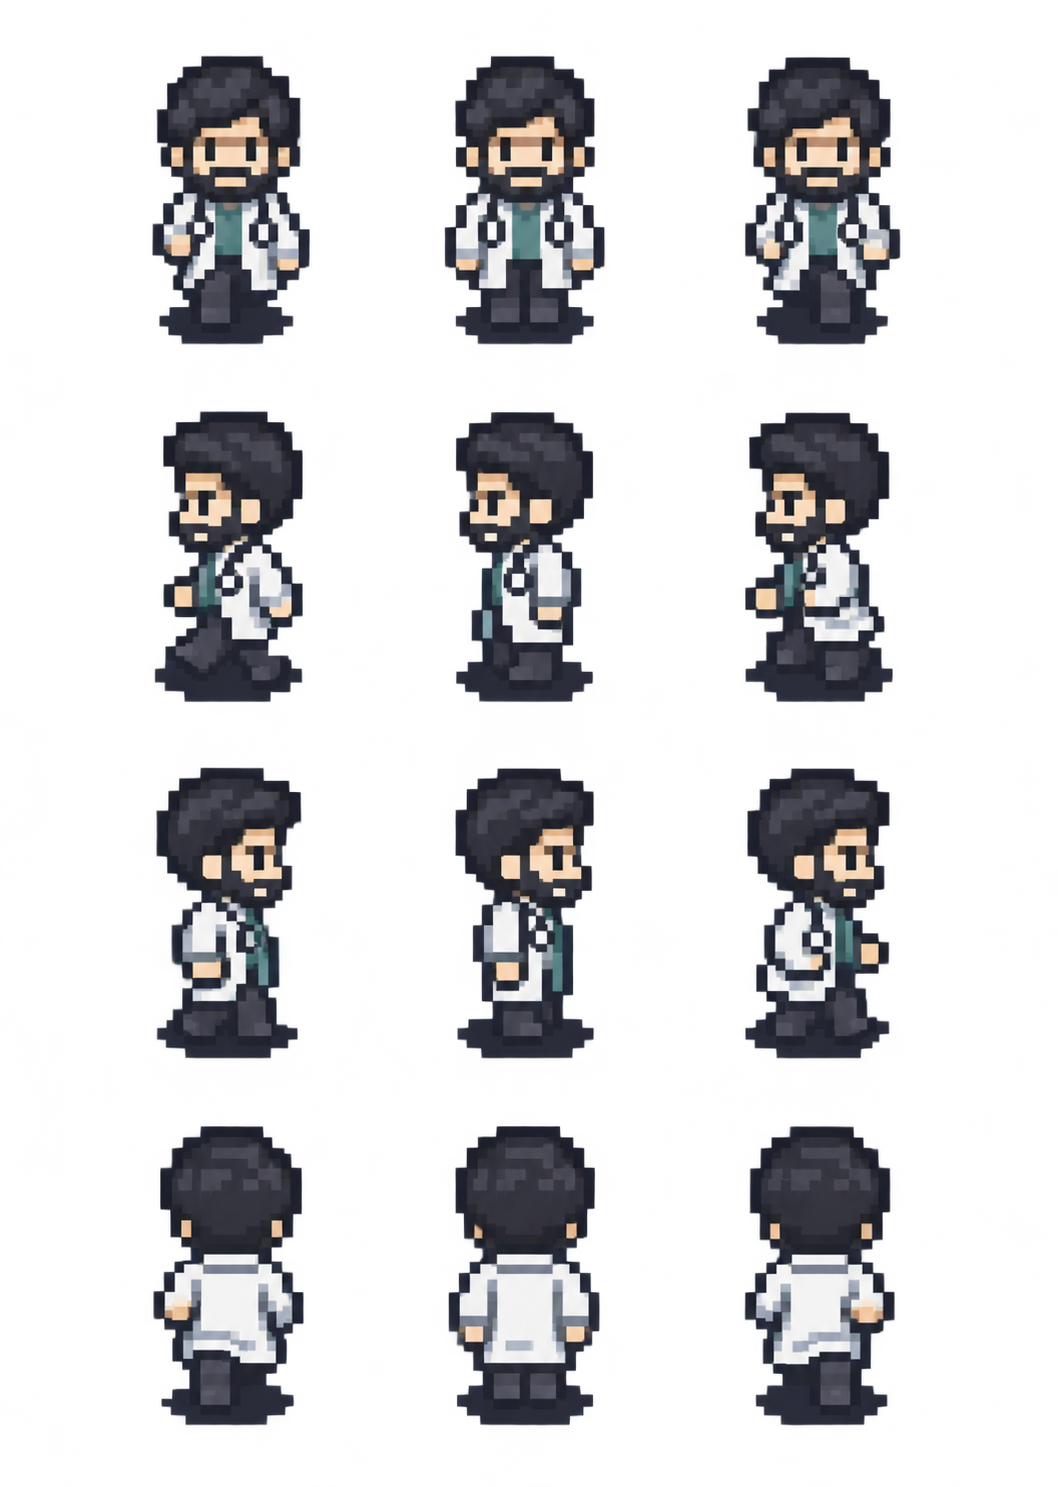
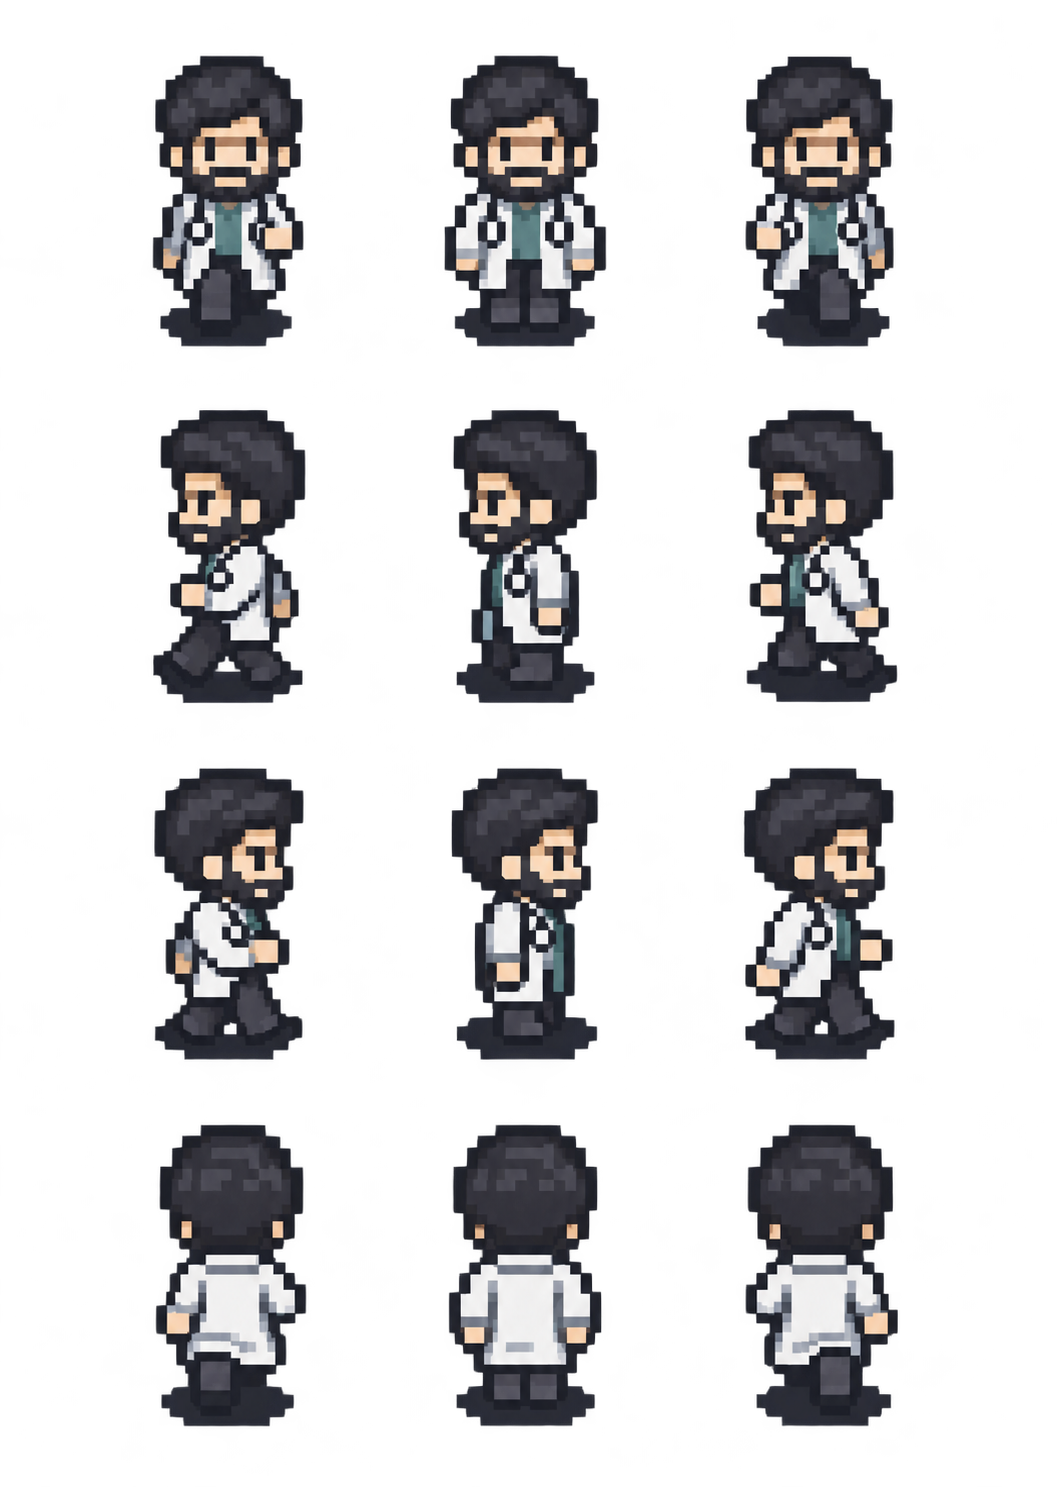
Beta v3.61.0: restore small elf and repair clinician arm swing

diff --git a/modules/themes/effects/christmasPeople.js b/modules/themes/effects/christmasPeople.js
@@ -5,14 +5,14 @@ export const PERSON_CAST=[...HOLIDAY_PEOPLE,...MEDICAL_PEOPLE].map(file=>({file,
   sheetWidth:234,sheetHeight:432,scale:1,animal:false,holiday:HOLIDAY_PEOPLE.includes(file)}));
 // The generated sheets have unequal margins. Atlas coordinates align feet and centers
 // without altering the approved artwork or stretching individual walking frames.
-const ATLAS={"doctor-olive.webp":[[32.89714,-0.30857],[123.92571,-0.30857],[215.10857,-0.30857],[31.50857,109.23429],[123.77143,109.23429],[216.03429,109.54286],[31.66286,219.39429],[123.46286,219.39429],[214.95429,219.39429],[32.58857,332.94857],[124.08,332.94857],[214.8,332.94857]],"doctor-navy.webp":[[32.58857,-1.23429],[123.46286,-1.23429],[214.95429,-1.23429],[31.66286,108.61714],[123.46286,108.61714],[215.26286,108.61714],[31.81714,218.77714],[123.77143,218.77714],[214.49143,218.77714],[32.28,332.02286],[123.46286,332.02286],[214.95429,332.02286]],"doctor-coat.webp":[[32.43429,-1.85143],[123.0,-1.85143],[214.8,-1.85143],[31.66286,108.61714],[122.84571,108.61714],[213.72,108.61714],[31.66286,218.46857],[123.0,218.46857],[213.25714,218.46857],[31.50857,331.71429],[122.69143,331.71429],[214.02857,331.71429]],"doctor-pink-blonde.webp":[[31.35429,0.61714],[122.22857,0.61714],[214.33714,0.61714],[32.43429,110.16],[123.61714,110.16],[215.41714,109.85143],[31.66286,220.01143],[123.30857,220.32],[214.49143,220.32],[32.28,333.56571],[123.77143,333.56571],[215.72571,333.56571]],"doctor-pink-chestnut.webp":[[33.20571,-0.30857],[123.92571,-0.30857],[215.26286,-0.30857],[33.66857,108.92571],[124.38857,108.92571],[216.34286,108.92571],[30.58286,219.39429],[122.38286,219.39429],[213.10286,219.39429],[32.28,332.33143],[123.77143,332.33143],[215.26286,332.33143]]};
-for(const cast of PERSON_CAST)if(ATLAS[cast.file])Object.assign(cast,{sheetWidth:1058*108/350,sheetHeight:1487*108/350,frames:ATLAS[cast.file]});
+const ATLAS={"doctor-coat.webp":[[31.35429,-1.23429],[123.15429,-1.23429],[213.87429,-1.23429],[31.66286,108.92571],[123.15429,108.92571],[214.64571,108.61714],[31.50857,218.77714],[123.0,219.08571],[213.72,218.77714],[32.28,332.02286],[123.0,332.02286],[214.64571,332.02286]],"doctor-navy.webp":[[32.28,-0.61714],[123.30857,-0.61714],[215.41714,-0.61714],[31.97143,109.23429],[123.92571,109.23429],[215.72571,109.23429],[31.50857,218.77714],[123.15429,218.77714],[214.64571,218.77714],[32.58857,332.64],[123.77143,332.64],[215.57143,332.64]],"doctor-olive.webp":[[32.28,0.61714],[123.77143,0.61714],[215.10857,0.61714],[31.66286,110.16],[123.92571,110.16],[216.34286,110.46857],[31.81714,220.32],[123.61714,220.32],[214.64571,220.32],[32.89714,333.25714],[124.08,333.25714],[214.8,333.25714]],"doctor-pink-blonde.webp":[[30.73714,1.54286],[122.38286,1.54286],[213.87429,1.54286],[32.58857,110.16],[123.92571,110.16],[216.03429,110.16],[31.50857,220.32],[123.46286,220.32],[214.8,220.32],[32.12571,333.87429],[123.92571,333.87429],[215.41714,333.87429]],"doctor-pink-chestnut.webp":[[33.36,0.30857],[124.23429,0.30857],[215.57143,0.30857],[33.82286,109.54286],[124.54286,109.54286],[216.34286,109.54286],[30.42857,220.01143],[122.07429,219.70286],[213.10286,220.01143],[32.12571,332.64],[123.92571,332.64],[215.41714,332.64]]};
+for(const cast of PERSON_CAST)if(ATLAS[cast.file])Object.assign(cast,{sheetWidth:1058*108/350,sheetHeight:1487*108/350,frames:ATLAS[cast.file],imageVersion:2});
 
-// Ground-to-eye landmarks in normalized sprite coordinates; hats are excluded.
+// Adult ground-to-eye landmarks; the small elf retains its original scale.
 export const EYE_HEIGHT=50;
 const EYES={'xmas_santa_3.png':52,'xmas_misses_3.png':52,'xmas_jesus_3.png':53,'gnomea_mv.png':33,
   'doctor-coat.webp':59,'doctor-navy.webp':60,'doctor-pink-chestnut.webp':59,'doctor-pink-blonde.webp':59,'doctor-olive.webp':59};
-for(const cast of PERSON_CAST){cast.eyeHeight=EYES[cast.file];cast.scale=EYE_HEIGHT/cast.eyeHeight;}
+for(const cast of PERSON_CAST){cast.eyeHeight=EYES[cast.file];cast.scale=cast.file==='gnomea_mv.png'?1:EYE_HEIGHT/cast.eyeHeight;}
 export const PEOPLE_PORTALS=['left','right','urgencias','principal'];
 export function createPeopleTraffic(actors,{random,stage}){
   const holiday=PERSON_CAST.filter(c=>c.holiday),medical=PERSON_CAST.filter(c=>!c.holiday);

diff --git a/modules/themes/effects/christmasScene.js b/modules/themes/effects/christmasScene.js
@@ -73,7 +73,7 @@ export function createChristmasScene(app,{audio}={}){
     const s=scale*actor.cast.scale,{width:w,height:h,sheetWidth:sw,sheetHeight:sh}=actor.cast;
     size(actor.node,w,h,sw,sh,s);
     actor.node.setAttribute('data-character',actor.cast.file);
-    actor.node.style.backgroundImage='url("'+new URL(actor.cast.file,ASSETS).href+'")';
+    actor.node.style.backgroundImage='url("'+new URL(actor.cast.file+(actor.cast.imageVersion?'?v=walk-'+actor.cast.imageVersion:''),ASSETS).href+'")';
     actor.node.setAttribute('data-state',actor.state||'walking');
     actor.node.setAttribute('data-person',String(!actor.cast.animal));
     actor.node.setAttribute('data-holiday',String(!!actor.cast.holiday));
@@ -119,7 +119,7 @@ export function createChristmasScene(app,{audio}={}){
         const actorWidth=actor.cast.width*scale*actor.cast.scale;
         if(actor.x>width+actorWidth||actor.x<-actorWidth*2){
           actor.direction=actor.x<0?1:-1;
-          actor.cast=pickCast(actor);actor.node.style.backgroundImage='url("'+new URL(actor.cast.file,ASSETS).href+'")';
+          actor.cast=pickCast(actor);actor.node.style.backgroundImage='url("'+new URL(actor.cast.file+(actor.cast.imageVersion?'?v=walk-'+actor.cast.imageVersion:''),ASSETS).href+'")';
           actor.x=actor.direction>0?-actor.cast.width*scale*actor.cast.scale:width;actor.speed=random(24,42);
         }
       }

diff --git a/modules/themes/seasons/christmas/visuals.js b/modules/themes/seasons/christmas/visuals.js
@@ -215,7 +215,7 @@ export function initChristmasTheme(app,{scope,config,createSnowfall,createSnowMo
  return {
   syncPatients(patients){lights.syncPatients(patients);},
   salute:options=>fireworks.salute(options),
-  getStatus:()=>({revision:'christmas-v33',audio:audio?.getStatus(),village:village.getStatus(),sky:sky.getStatus(),lights:lights.getStatus(),snow:snow.getStatus(),mountains:mountains.getStatus(),
+  getStatus:()=>({revision:'christmas-v34',audio:audio?.getStatus(),village:village.getStatus(),sky:sky.getStatus(),lights:lights.getStatus(),snow:snow.getStatus(),mountains:mountains.getStatus(),
     fireworks:fireworks.getStatus(),scene:scene.getStatus()}),
   dispose(){
    if(disposed)return;
